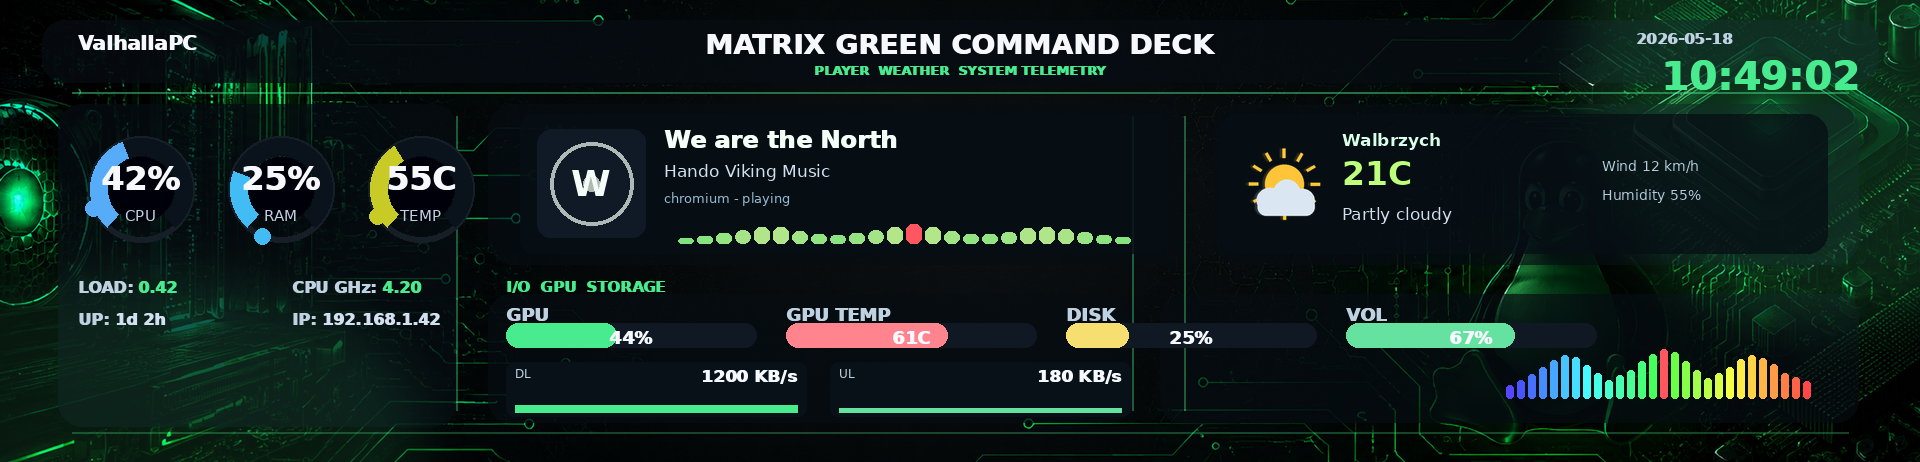
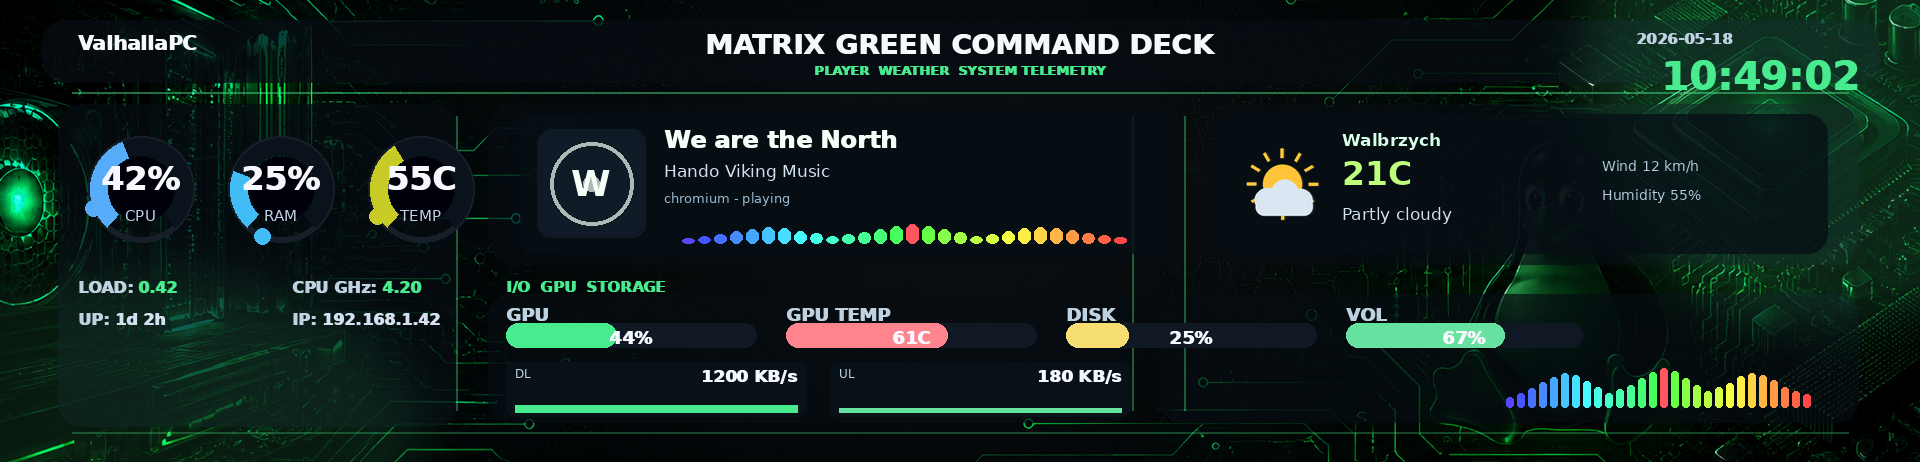
Smooth EQ refresh and polish starter themes

diff --git a/stats_sources.py b/stats_sources.py
@@ -1354,9 +1354,9 @@ class StatsProvider:
             return dict(self._last_volume_snapshot)
 
         out = {"volume_percent": "N/A", "volume_state": "N/A"}
-        try:
-            wpctl = self._local_or_host_cmd("wpctl")
-            if wpctl:
+        wpctl = self._local_or_host_cmd("wpctl")
+        if wpctl:
+            try:
                 payload = subprocess.check_output(
                     wpctl + ["get-volume", "@DEFAULT_AUDIO_SINK@"],
                     encoding="utf-8",
@@ -1367,9 +1367,13 @@ class StatsProvider:
                 if match:
                     out["volume_percent"] = f"{int(round(float(match.group(1)) * 100.0))}%"
                 out["volume_state"] = "muted" if "MUTED" in payload.upper() else "active"
-            else:
-                pactl = self._local_or_host_cmd("pactl")
-                if pactl:
+            except Exception:
+                pass
+
+        if out["volume_percent"] == "N/A":
+            pactl = self._local_or_host_cmd("pactl")
+            if pactl:
+                try:
                     vol_payload = subprocess.check_output(
                         pactl + ["get-sink-volume", "@DEFAULT_SINK@"],
                         encoding="utf-8",
@@ -1386,26 +1390,30 @@ class StatsProvider:
                         timeout=0.35,
                     ).strip()
                     out["volume_state"] = "muted" if "yes" in mute_payload.lower() else "active"
-                else:
-                    pamixer = self._local_or_host_cmd("pamixer")
-                    if pamixer:
-                        volume_value = subprocess.check_output(
-                            pamixer + ["--get-volume"],
-                            encoding="utf-8",
-                            stderr=subprocess.DEVNULL,
-                            timeout=0.35,
-                        ).strip()
-                        if volume_value.isdigit():
-                            out["volume_percent"] = f"{int(volume_value)}%"
-                        mute_value = subprocess.check_output(
-                            pamixer + ["--get-mute"],
-                            encoding="utf-8",
-                            stderr=subprocess.DEVNULL,
-                            timeout=0.35,
-                        ).strip()
-                        out["volume_state"] = "muted" if mute_value.lower() == "true" else "active"
-        except Exception:
-            pass
+                except Exception:
+                    pass
+
+        if out["volume_percent"] == "N/A":
+            pamixer = self._local_or_host_cmd("pamixer")
+            if pamixer:
+                try:
+                    volume_value = subprocess.check_output(
+                        pamixer + ["--get-volume"],
+                        encoding="utf-8",
+                        stderr=subprocess.DEVNULL,
+                        timeout=0.35,
+                    ).strip()
+                    if volume_value.isdigit():
+                        out["volume_percent"] = f"{int(volume_value)}%"
+                    mute_value = subprocess.check_output(
+                        pamixer + ["--get-mute"],
+                        encoding="utf-8",
+                        stderr=subprocess.DEVNULL,
+                        timeout=0.35,
+                    ).strip()
+                    out["volume_state"] = "muted" if mute_value.lower() == "true" else "active"
+                except Exception:
+                    pass
 
         self._last_volume_snapshot = dict(out)
         self._last_volume_at = now

diff --git a/trofeo_backend.py b/trofeo_backend.py
@@ -42,9 +42,9 @@ from theme_schema import (
 
 DEFAULT_LIVE_REFRESH_INTERVAL_S = 1.0
 FAST_VISUAL_REFRESH_INTERVAL_S = 0.25
-FAST_AUDIO_EQ_REFRESH_INTERVAL_S = 0.10
+FAST_AUDIO_EQ_REFRESH_INTERVAL_S = 0.075
 MIN_LIVE_REFRESH_INTERVAL_S = 0.15
-FAST_VISUAL_FULL_STATS_INTERVAL_S = 1.5
+FAST_VISUAL_FULL_STATS_INTERVAL_S = 1.0
 MEDIA_TRANSIENT_GRACE_S = 8.0
 LIVE_REFRESH_LOG_INTERVAL_S = 5.0
 LIVE_REFRESH_SLOW_STAGE_MS = 120.0
@@ -1261,8 +1261,8 @@ class ReplayController:
             except (TypeError, ValueError):
                 value = 0.0
             peak = max(peak, value)
-            values.append(int(round(value * 24.0)))
-        if peak < 0.015:
+            values.append(int(round(value * 48.0)))
+        if peak < 0.008:
             return None
         return tuple(values)
 
@@ -1553,6 +1553,10 @@ class ReplayController:
                 values.update(self.stats_provider.read_audio_eq_stats())
             except Exception:
                 pass
+            try:
+                values.update(self.stats_provider.read_volume_stats())
+            except Exception:
+                pass
             values.update({str(key): str(value) for key, value in media_override.items()})
             return values
 
@@ -1779,8 +1783,9 @@ class ReplayController:
                     overlay_render_ms = None
                     compose_ms = None
                     full_render_ms = None
+                    full_stats_due = (time.time() - last_full_stats_at) >= full_stats_interval_s
                     if fast_visual_refresh:
-                        if refresh_reason == "periodic":
+                        if refresh_reason == "periodic" or full_stats_due:
                             merged_stats = _refresh_full_live_stats(media_cache)
                         else:
                             merged_stats = _cached_live_stats(media_cache)
@@ -2367,7 +2372,7 @@ class ReplayController:
             str(WINDOWS_CAPTURE_INTER_PACKET_DELAY_S),
             "--loop",
             "--interval",
-            "0.075",
+            "0.050",
             "--skip-unchanged",
             "--keepalive-interval",
             "0.5",
@@ -2690,6 +2695,7 @@ class ReplayController:
                 "config": {
                     **self.cfg.as_json(),
                     "weather": self.stats_provider.weather_status(),
+                    "volume": self.stats_provider.read_volume_stats(),
                     "audio_eq": self.stats_provider.audio_eq_status(),
                 },
             }
@@ -2758,6 +2764,7 @@ class ReplayController:
                 "config": {
                     **self.cfg.as_json(),
                     "weather": self.stats_provider.weather_status(),
+                    "volume": self.stats_provider.read_volume_stats(),
                     "audio_eq": self.stats_provider.audio_eq_status(),
                 },
             }
